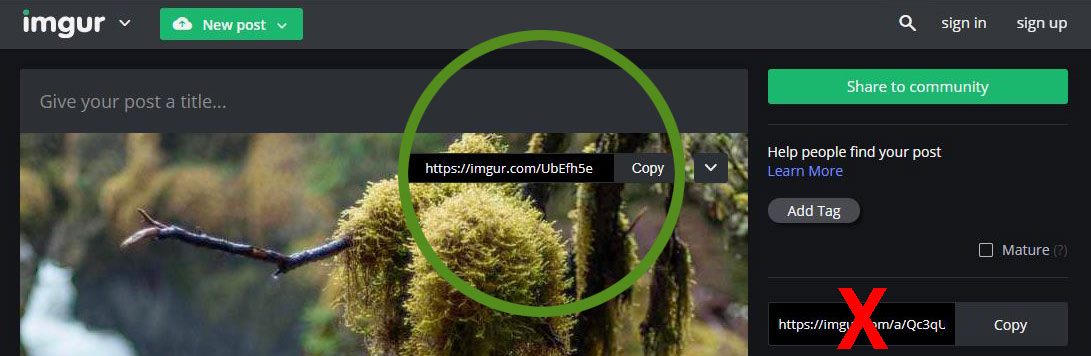
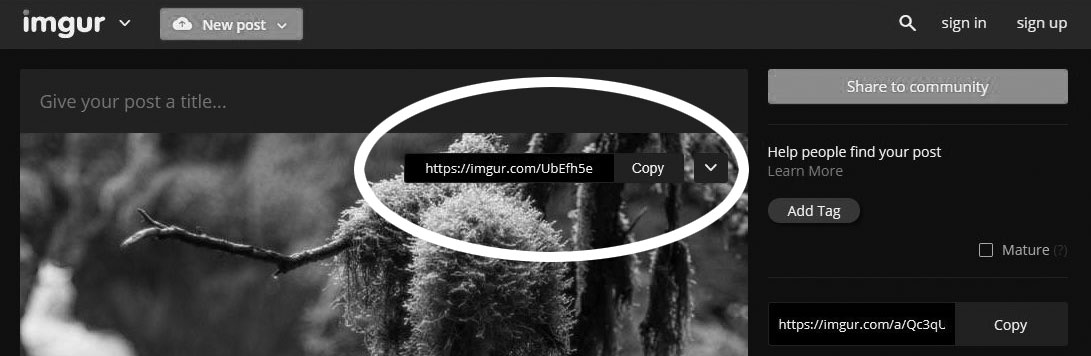
MEMO-153 style update

diff --git a/web/templates/guides.html b/web/templates/guides.html
@@ -10,9 +10,10 @@
             <li>Go to <a href="https://imgur.com/">imgur</a> and click <strong>New post</strong>.</li>
             <li>Click <strong>Choose File</strong> and find a file on your computer. </li>
             <li>Wait for the image to upload.</li>
-            <li>Mouse over the image itself and copy the link. Note that imgur offers two links, and only one of them will work!<br>
+            <li>Mouse over the image itself and click <strong>Copy</strong>. Note that imgur offers two links, and only one of them will work!<br>
                 <img src="/img/guide-images-1.jpg">
             </li>
+            <li>Click <strong>New Memo</strong> and paste the link. Also add any description text if needed. Memo will detect the link and embed the image when viewing.</li>
         </ul>
     </div>
 </div>
